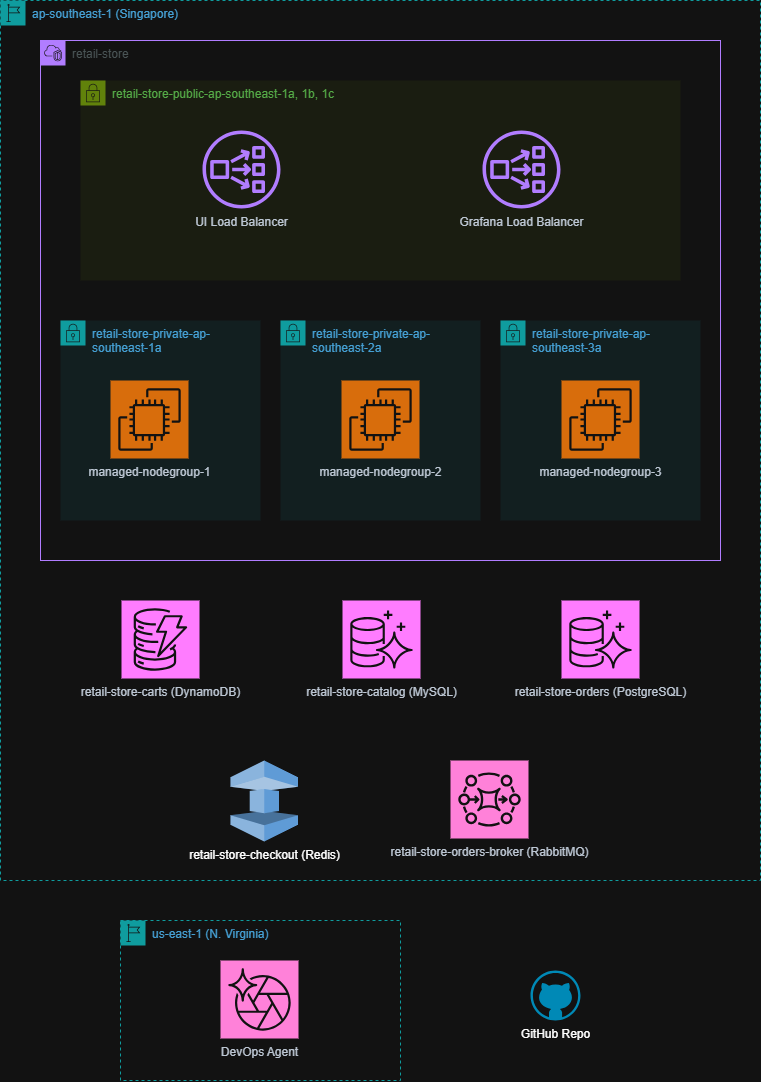
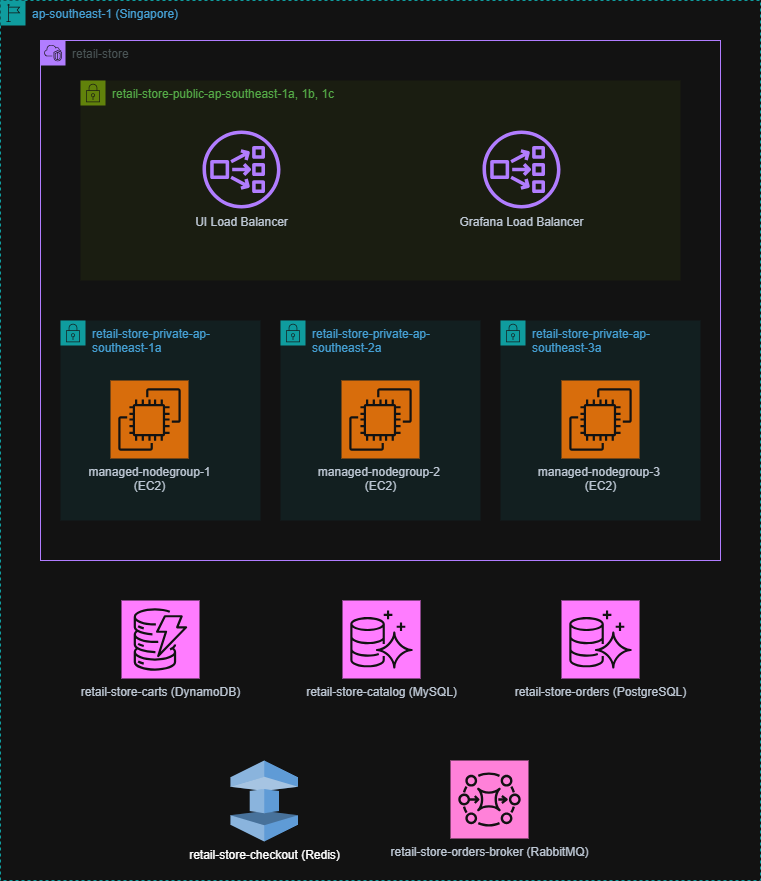
small changes

diff --git a/docs/architecture.md b/docs/architecture.md
@@ -1,18 +1,28 @@
+# AWS Resource
 ![Description](images/aws-resources.png)
 
-# AWS Resource
-
 ## ELB in public subnet
-- UI Load Balancer - for ecommerce app
-- Grafana Load Balancer - for grafana
+- [UI Load Balancer](../terraform/eks/default/values/ui.yaml)
+```
+service:
+  type: LoadBalancer
+  annotations:
+    service.beta.kubernetes.io/aws-load-balancer-type: external 
+    service.beta.kubernetes.io/aws-load-balancer-scheme: internet-facing
+    service.beta.kubernetes.io/aws-load-balancer-nlb-target-type: ip
+    service.beta.kubernetes.io/aws-load-balancer-attributes: "load_balancing.cross_zone.enabled=true"
+```
+- [Grafana Load Balancer](../terraform/eks/default/values/monitoring.yaml)
+```
+  service:
+    type: LoadBalancer
+    annotations:
+      service.beta.kubernetes.io/aws-load-balancer-scheme: internet-facing
+      service.beta.kubernetes.io/aws-load-balancer-internal: "false"
+``` 
 
 ## EC2 in private subnet
-3 managed node group created with 1 EC2 instance in each group
-- managed-nodegroup-1
-- managed-nodegroup-2
-- managed-nodegroup-3
-
-provisioned by 
+[3 managed node group created with 1 EC2 instance in each group](../terraform/lib/eks/eks.tf)
 ```
 module "eks_cluster"
 ...
@@ -54,12 +64,23 @@ module "eks_cluster"
 ```
 
 ## Date Store
-- DynamoDB for carts : provision by terraform/lib/dependencies/dynamodb.tf
-- Aurora PostreSQL for catalog : provision by terraform/lib/dependencies/catalog_rds.tf
-- Aurora mySQL for orders : terraform/lib/dependencies/orders_rds.tf
-- Redis for checkout : terraform/lib/dependencies/elasticache.tf
-- RabbitMQ for order broker : terraform/lib/dependencies/mq.tf
+- [DynamoDB for carts](../terraform/lib/dependencies/dynamodb.tf)
+- [Aurora PostreSQL for catalog](../terraform/lib/dependencies/catalog_rds.tf)
+- [Aurora mySQL for orders](../terraform/lib/dependencies/orders_rds.tf)
+- [Redis for checkout](../terraform/lib/dependencies/elasticache.tf)
+- [RabbitMQ for order broker](../terraform/lib/dependencies/mq.tf)
 
-## DevOps Agent
-- Workspace for Cloud Engineer to do triage, root cause analysis
-- Integrated to GitHub 
+# K8s Cluster - Application
+![Description](images/k8s-app.png)
+
+- [ui](../src/ui/chart/values.yaml)
+- [orders](../src/orders/chart/values.yaml)
+- [checkout](../src/checkout/chart/values.yaml)
+- [cart](../src/cart/chart/values.yaml)
+- [catalog](../src/catalog/chart/values.yaml)
+
+# K8s Cluster - Monitoring
+
+
+# DevOps Agent + Observability Stack + CI/CD
+

diff --git a/docs/changes.md b/docs/changes.md
@@ -1,0 +1,3 @@
+# 27/5/2026
+update module "eks_cluster" - "terraform-aws-modules/eks/aws" from version 19.9 to 20.0"
+